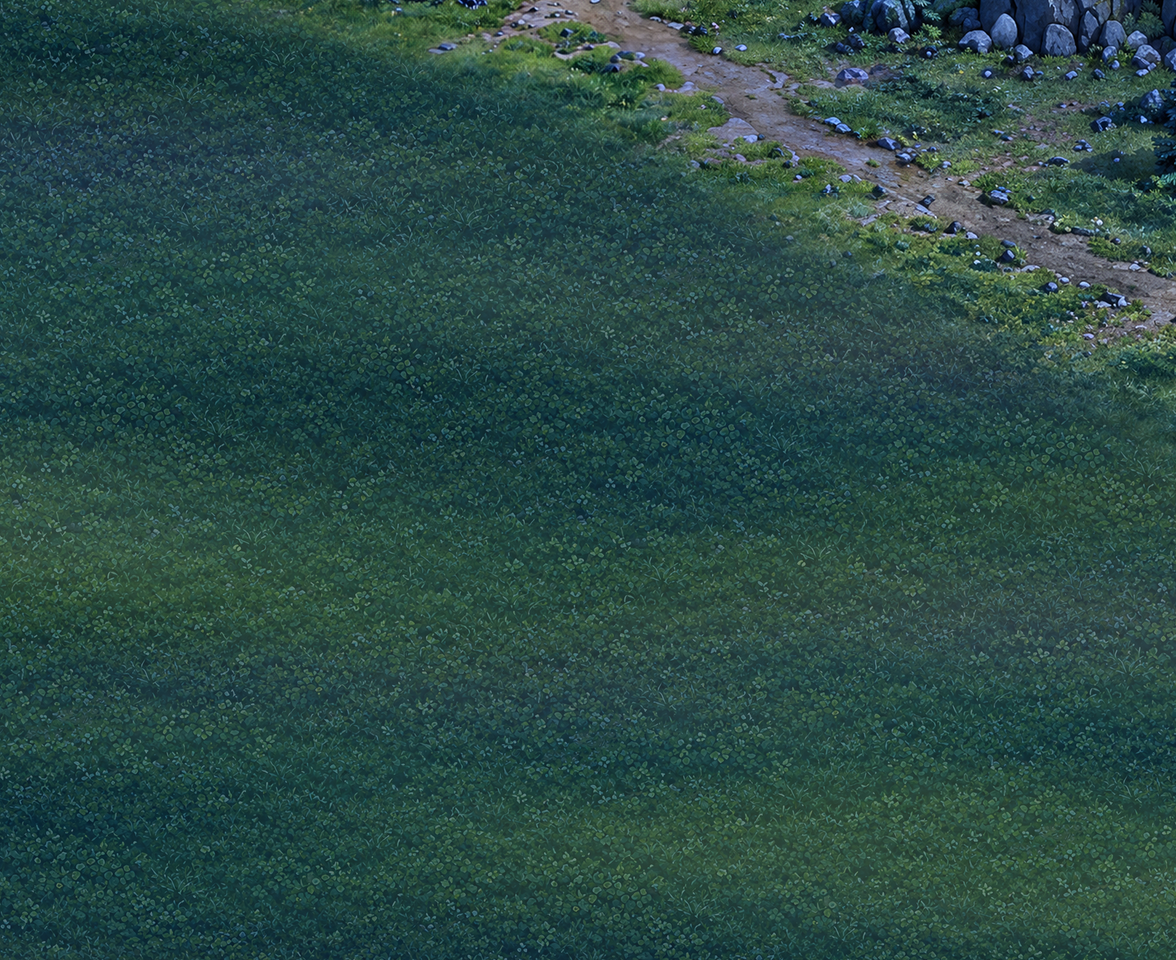
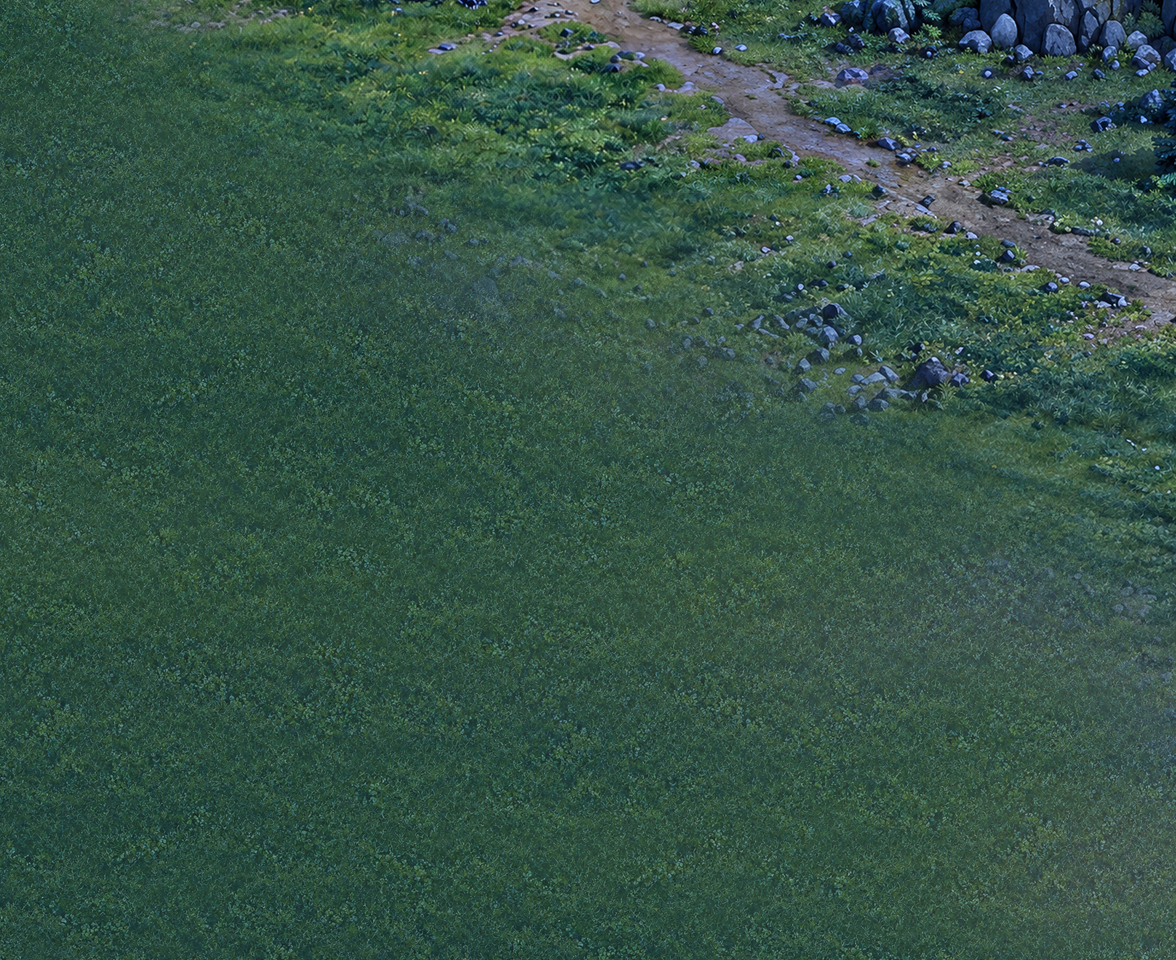
草地边界优化

diff --git a/tools/build_wide_map.py b/tools/build_wide_map.py
@@ -71,12 +71,12 @@ def minimum_seam(cost):
 
 def grass_field():
     """只裁切和拼合一份生成材质，不绘制草叶或程序生成美术。"""
-    source=Image.open(OUT/'grass-material-v2-source.png').convert('RGB')
+    source=Image.open(OUT/'grass-material-v3-source.png').convert('RGB')
     pixels=np.asarray(source,dtype=float)
     low=np.asarray(source.filter(ImageFilter.GaussianBlur(20)),dtype=float)
     # 材质只提供细草高频；整片草地的缓慢光照来自同一份已有生成底色。
     source=Image.fromarray(np.uint8(np.clip(np.rint(128+(pixels-low)*.7),0,255)))
-    save_image(source,OUT/'grass-material-v2.png')
+    save_image(source,OUT/'grass-material-v3.png')
     field=np.zeros((SIZE[1],SIZE[0],3),np.uint8)
     tile_size,overlap=576,96
     crop_size=min(source.width,source.height,960)
@@ -103,7 +103,10 @@ def grass_field():
                 weight[:band]=np.minimum(weight[:band],top)
             field[y:y+h,x:x+w]=np.uint8(np.rint(current*(1-weight[:,:,None])+patch*weight[:,:,None]))
     macro=Image.open(OUT/'west-source.png').convert('RGB').filter(ImageFilter.GaussianBlur(12)).resize(SIZE,Image.Resampling.LANCZOS)
-    return Image.fromarray(np.uint8(np.clip(np.rint(np.asarray(macro,dtype=float)+(field.astype(float)-128)*.5),0,255)))
+    # 降低旧底色的横向明暗条带；细草与山脚使用接近的灰绿色基调。
+    macro_pixels=np.asarray(macro,dtype=np.float32)
+    macro_pixels=(macro_pixels-macro_pixels.mean(axis=(0,1)))*.3+np.array([46,78,65])
+    return Image.fromarray(np.uint8(np.clip(np.rint(macro_pixels+(field.astype(float)-128)*.8),0,255)))
 
 def repair_joins(base,legacy,mountain_region):
     # 原有山体从原高清图精确恢复，不保留上一版压缩补绘侵入旧山区的部分。
@@ -152,7 +155,25 @@ def repair_joins(base,legacy,mountain_region):
     ImageDraw.Draw(extended).polygon(draw_points,fill=255)
     plain=extended.filter(ImageFilter.GaussianBlur(20)).crop((64,64,SIZE[0]+64,SIZE[1]+64))
     mask=np.asarray(plain,dtype=float)*(1-np.asarray(protect)/255)
-    blend(base,grass_field(),(0,0),Image.fromarray(np.uint8(mask)))
+    # 先合并山体保护区，再向平原内侧羽化；不能在羽化后用硬保护区截断。
+    # 约600世界像素的交接范围让草色、纹理密度一起渐变，岩壁与水岸保持原像素。
+    allowed=Image.fromarray(np.uint8(mask))
+    padded=np.pad(np.asarray(allowed),600,mode='edge')
+    softened=Image.fromarray(padded).filter(ImageFilter.GaussianBlur(150))
+    t=np.clip((np.asarray(softened.crop((600,600,SIZE[0]+600,SIZE[1]+600)),dtype=float)/255-.5)*2,0,1)
+    mask=np.minimum(mask,np.rint(t*t*(3-2*t)*255))
+    grass=grass_field()
+    # 色调在比细节更宽的范围内接近原山脚，避免羽化后仍能辨认出暗色草坪边。
+    # 只转移低频颜色，细草不模糊；最后仍由保护遮罩限制实际写入范围。
+    padded=np.pad(np.asarray(allowed),1600,mode='edge')
+    broad=Image.fromarray(padded).filter(ImageFilter.GaussianBlur(400))
+    tone=np.clip((np.asarray(broad.crop((1600,1600,SIZE[0]+1600,SIZE[1]+1600)),dtype=np.float32)/255-.5)*2,0,1)
+    tone=1-tone*tone*(3-2*tone)
+    original_low=np.asarray(base.filter(ImageFilter.GaussianBlur(48)),dtype=np.float32)
+    grass_low=np.asarray(grass.filter(ImageFilter.GaussianBlur(48)),dtype=np.float32)
+    matched=np.asarray(grass,dtype=np.float32)+(original_low-grass_low)*tone[:,:,None]
+    grass=Image.fromarray(np.uint8(np.clip(np.rint(matched),0,255)))
+    blend(base,grass,(0,0),Image.fromarray(np.uint8(mask)))
     save_image(Image.fromarray(np.uint8(mask)),OUT/'plain-material-mask-v2.png')
 
 def main():
@@ -265,8 +286,10 @@ def main():
     save_image(preview.convert('RGB').resize((1764,720),Image.Resampling.LANCZOS),OUT/'overview.png')
     record = dict(date='2026-10-21',tool='built-in image_gen',mapMode='scene_mode',visualModel='layered_raster',runtimeObjectModel='existing_separate_props',collisionModel='project-native grid + blocked north boundary',engineTarget='Godot 4.7',worldSize=list(SIZE),legacyWorldOffset=list(OFFSET),generatedAssets=[])
     record['revision']='join-repair-v4'
+    record['grassTransition']={'date':'2026-10-22','method':'细草v3、条带降幅、低频色调与细节分开过渡','blurRadius':150,'toneBlurRadius':400,'protectedPixelsUnchanged':True}
     record['composition']='原山区像素保护；顶部真实坐标补绘；全平原共用一份生成草地材质，以重叠区最小色差剪切线拼合'
     references = {'extension-source':'extension-guide','north-source':'north-guide','grass-repair-source':'grass-seam-reference','west-source':'west-guide','grass-material-v2-source':'grass-material-v2','north-join-v2-source':'north-join-v2','north-continuity-v3-source':'north-continuity-v3','north-clean-v4-source':'north-clean-v4'}
+    references['grass-material-v3-source']='grass-material-v3'
     for name in references:
         path = OUT/(name+'.png')
         record['generatedAssets'].append(dict(path=path.name,prompt=name+'.prompt.txt',reference='references/'+references[name]+'.png',nativeSize=list(Image.open(path).size),sha256=hashlib.sha256(path.read_bytes()).hexdigest()))

diff --git a/tools/check_wide_map.py b/tools/check_wide_map.py
@@ -55,7 +55,7 @@ def main():
     assert border.size==base.size and border.mode=='RGBA' and border.getchannel('A').getextrema()==(0,255)
     record=read(OUT/'generation-record.json')
     assert record['revision']=='join-repair-v4'
-    assert len(record['generatedAssets'])==8
+    assert len(record['generatedAssets'])==9
     for entry in record['generatedAssets']:
         path=OUT/entry['path']
         assert Image.open(path).size==tuple(entry['nativeSize']) and digest(path)==entry['sha256']
@@ -70,6 +70,10 @@ def main():
     assert v1<v0*.6 and h1<h0*.6, '历史母图局部接缝指标应保持；不代表扩边接缝视觉验收'
     plain=np.asarray(Image.open(OUT/'plain-material-mask-v2.png'))
     assert np.all(plain[:,1800:3000]==255), '用户反馈的全高交界必须完全共用同一草地材质'
+    delta=plain.astype(np.int16)
+    assert max(np.abs(np.diff(delta,axis=0)).max(),np.abs(np.diff(delta,axis=1)).max())<=3, '草地过渡不得被山体硬遮罩截断'
+    for y in (600,1500,2450):
+        assert np.count_nonzero((plain[y]>0)&(plain[y]<255))>=300, '上中下交界至少保留300世界像素的渐变'
     # 北部补绘仅占顶部440世界像素；其下山区保护区应保持原地形像素。
     from PIL import ImageDraw
     protection=Image.new('L',base.size)
@@ -89,7 +93,7 @@ def main():
     print('PASS: 7056×2880素材、196×80格及八资源保持同步')
     print('PASS: 原547路格/八石梯/所有岩壁格仅按68列8行迁移')
     print('PASS: 18片地表重组与连续底图逐像素一致')
-    print('PASS: 复用树簇/岩缘/边界alpha与八张生成稿的提示词、参考、尺寸和哈希有效')
+    print('PASS: 复用树簇/岩缘/边界alpha与九张生成稿的提示词、参考、尺寸和哈希有效')
     print('PASS: 原竖带区域完全共用统一草地；顶部补绘及两处局部植被清理区外原山区逐像素保持，视觉另查GL')
     print(f'PASS: 横缝均差{h0:.3f}→{h1:.3f}，竖缝{v0:.3f}→{v1:.3f}；此为局部指标，仍需GL目检')
     print(f'PASS: {len(files)}项素材/数据/提示词确定性重建一致，旧源文件哈希保持')

diff --git a/DEVELOPMENT_PROGRESS.md b/DEVELOPMENT_PROGRESS.md
@@ -28,10 +28,10 @@ powershell -ExecutionPolicy Bypass -File .\tools\check_project.ps1
 
 | 项目 | 当前状态 |
 |---|---|
-| 最后更新 | 2026-10-21 |
+| 最后更新 | 2026-10-22 |
 | 开发阶段 | 制作阶段（Production），顶部山体补全、7056×2880视口比例和平原草地修复已接入验证；既有进攻路与S6约束保持。首次寻路尖峰、动态避让和自然长局待后续 |
 | 当前分支 | `master` |
-| 接力基线提交 | `1bb55d8`（单位移动路线优化）；2026-10-21地图扩边及本轮验证文档未提交 |
+| 接力基线提交 | `9c40f35`（地图优化）；接续时已存在，本次仅补充收尾验证文档，未执行提交/推送 |
 | 当前电脑工作副本 | `D:\MyProject\waiting-for-dawn` |
 | 远程仓库 | `origin` → `https://gitee.com/yangget/waiting-for-dawn.git` |
 | 引擎 | Godot 4.7 Standard，GDScript，GL Compatibility |
@@ -42,6 +42,21 @@ powershell -ExecutionPolicy Bypass -File .\tools\check_project.ps1
 提交哈希只是接力参考。若本文档之后已有新提交，应以 `git log -5 --oneline --decorate` 和远程分支为准，并在本次开发结束时更新本表。
 
 ## 已完成的开发内容
+
+### 草地材质与色调二次优化（2026-10-22）
+
+用户反馈首版仍明显，现使用内置image_gen生成1254×1254细草v3，减弱平原条带，并将400像素半径的低频草色匹配与150像素半径的纹理羽化分开。地图回归144项、GL38项、61项确定性产物与山区像素保护检查通过；全图及上中下/1.6倍近景已目检。最终观感待用户复核，最大倍率仍有源材质风格差异；下一步按反馈复核，首次寻路尖峰与自然长局待后续。
+
+
+### 草地与山脚自然过渡（2026-10-22）
+
+修复硬保护遮罩截断羽化的问题，沿平原一侧渐变衔接原山脚草地，保持原山区像素与导航。144项回归、GL38项与57项确定性产物检查通过；全图、上中下交界及最大倍率已目检，最终审美待复核，详见本日草地过渡QA。
+
+### 草地竖带与北部错层修复（2026-10-22收尾）
+
+用户后续两图证实上一轮视觉判断不充分。现平原共用统一草地材质与连续底色，北部采用统一比例补绘，清理水缝、悬空草台及半截植被；同步两张独立岩缘贴图以消除旧遮挡层蓝块，并修复边界树林矩形切口。7056×2880世界、资源和导航保持。相关4组249项回归通过，最终岩缘同步后另复测大图120/扩边24项；GL38项与全图、交界上中下段、北部左右和1.6倍近景目检通过；57项确定性产物、8稿来源、18片重组、旧源保护和岩缘alpha保持通过。详见`tests/reports/qa-2026-10-22-map-join-repair.md`。
+
+本轮没有重跑全量，以下1542项为历史基线。新平原更均匀，北部补绘最大倍率仍较原高清岩壁柔和；最终美术接受度待用户复核，首次寻路约809ms尖峰、动态避让和自然长局问题保持。
 
 ### 顶部山体补全、视口比例与草地修复（2026-10-21已接入验证）
 
@@ -317,9 +332,19 @@ JSON、两份提示词、无图片/未接入状态与参考图存在检查通过
 
 ## 当前首要任务
 
-### 追加反馈：草地竖带与山区顶部错层（2026-10-21修复中）
+### 草地材质与色调二次优化（2026-10-22已接入验证）
 
-用户两张实景图证实上一轮西侧交界仍有全高竖向色带，顶部补绘有横向水带与重复岩层。原功能回归继续有效，但不能据此认定这两处视觉已通过；本轮先纠正补绘与合成，再检查全图和对应近景。保持7056×2880、资源和导航数据，不扩范围。
+用户反馈首版仍明显，现使用内置image_gen生成1254×1254细草v3，减弱平原条带，并将400像素半径的低频草色匹配与150像素半径的纹理羽化分开。地图回归144项、GL38项、61项确定性产物与山区像素保护检查通过；全图及上中下/1.6倍近景已目检。最终观感待用户复核，最大倍率仍有源材质风格差异；下一步按反馈复核，首次寻路尖峰与自然长局待后续。证据：`tests/reports/qa-2026-10-22-grass-transition-v2.md`。
+
+
+### 草地与山脚过渡（2026-10-22已接入验证）
+
+按新增红框修正平原与山脚硬分界：先合并保护遮罩再向平原内侧渐变，上中下过渡323/590/501世界像素，遮罩最大邻差36→3。已重建地形及小地图；144项地图回归、GL38项、57项确定性产物、结构/差异检查通过，目检全图与交界近景。证据见`tests/reports/qa-2026-10-22-grass-transition.md`。最终观感待用户复核，两种源材质近景风格差异仍在；下一步复核反馈，首次寻路尖峰及自然长局待后续。
+
+
+### 追加反馈：草地竖带与山区顶部错层（2026-10-22已修复，待用户视觉复核）
+
+用户两张实景图证实上一轮西侧交界仍有全高竖向色带，顶部补绘有横向水带与重复岩层。原视觉结论已更正；本轮统一平原材质、纠正北部补绘并同步遮挡层，249项相关回归、GL38项和57项确定性检查通过，已检查全图及对应近景。下一步用户复核实际观感；保留最大倍率清晰度限制，后续按反馈安排性能和自然长局，不自动扩图或改导航。
 
 ### 顶部山体延展、视口比例与草地拼接（2026-10-21已验证，待用户视觉复核）
 
@@ -607,6 +632,9 @@ git diff --check
 
 | 日期 | 内容 | 验证 |
 |---|---|---|
+| 2026-10-22 | 用户反馈首版仍明显；生成细草v3，弱化横向明暗条带，分开草色匹配与纹理渐变。 | 144项地图回归、GL38项、61项确定性产物、山区保护、结构与差异检查通过；全图和近景已目检，最终观感待复核。 |
+| 2026-10-22 | 按新增红框修复草地与山脚硬分界，合并保护区后向平原内侧渐变，重建切片和小地图。 | 144项回归、GL38项、57项确定性产物、山区保护及结构/差异检查通过；目检全图与上中下近景，最终观感待复核。 |
+| 2026-10-22 | 接续修复草地竖带、山区水缝/错层、旧岩缘蓝块和边界林带切口，纠正上一轮视觉结论并补充定点截图。 | 相关249项、GL38项、57项素材确定性及两张岩缘alpha保持通过；项目结构/差异检查通过。最终观感待用户复核，近景柔和与既有首次寻路尖峰限制保留。 |
 | 2026-10-21 | 内置generate2dmap四稿补出顶部山体、扩展西侧平原并修复草地接缝，接入7056×2880/196×80格与18片连续地形；旧区域及导航共同迁移，小地图同步，岩缘按实际视口裁剪。 | 全量37组1542项、GL新画幅31/地图70/S6 5/输入28项通过；真实新增农场交付、四矿往返、40项素材数据确定性、提示词/参考/alpha/重组、导入/结构/差异检查通过。首次路径峰值809ms、最终视觉/动态避让/长局待后续，未提交/推送。 |
 | 2026-10-20 | 野怪出生即规划最短进城路线，索敌沿真实路径选择最近可达目标；补封路破障、攻击距离/遮挡及小幅移动目标恢复。 | 新专项33项、全量36组1518项、GL8项、四出生点独立Dijkstra及实际移动、导入/结构/差异检查通过；S6成果保留。高密度索敌、首次路径尖峰、动态避让和自然长局待后续，未提交/推送。 |
 | 2026-10-20 | S6按两段石梯及平台折返对齐，调整R03山脚和R12上端连接并封闭侧墙；导出新版路线总览，保留历史图。 | 新专项18项、全量35组1485项及GL6项通过，双向16点/680.38世界像素；导航/图册确定性、其他15路7梯配置不变、项目结构与差异检查通过。首次寻路尖峰、动态避让和自然长局仍待后续，未提交/推送。 |

diff --git a/tests/reports/qa-2026-10-22-map-join-repair.md b/tests/reports/qa-2026-10-22-map-join-repair.md
@@ -1,0 +1,34 @@
+# 2026-10-22 草地竖带与北部山区拼接修复
+
+用户两张截图确认上一轮仍有西侧全高竖带、北部横向水带与悬空重复草台。此前功能测试和母图局部接缝指标没有覆盖这些实际缺陷，不能作为视觉通过证据。本轮已修正合成并核对游戏截图；整体美术接受度待用户复核。
+
+## 修复内容
+
+- 平原两侧共用同一生成草地细节与连续底色，取消新旧材质在固定竖线上的长距离羽化；沿山脚和湖岸过渡，18片地表从同一底图裁切。
+- 北部补绘保持参考坐标的统一比例，清除横向水带、重复薄草台和两处半截植被。同步两张独立岩缘贴图，避免旧遮挡层把蓝色矩形重新盖回来；原透明轮廓逐像素保持。
+- 边界林带改为取完整树根和透明边缘，去掉旧短条裁切造成的矩形断口。世界7056×2880、资源点、547路格、8石梯及经济规则保持。
+- 使用内置 image_gen；本次新增4张被采用的生成原稿，连同上一轮共8张，提示词、参考、尺寸及哈希见 `assets/map/dawn_wide_v3/generation-record.json`。脚本只处理合成、裁切及材质拼合。顶部补绘及两处清理范围之外的原山区保持原像素。
+
+## 验证结果
+
+验证于10月21日执行，10月22日接续核对并收尾；截图目录保留实际生成日期。
+
+| 检查 | 结果 |
+|---|---|
+| 相关功能回归 | 4组249项通过：扩边24、大图120、山区87、S6 18；最终遮挡素材同步后另复测大图120与扩边24项 |
+| 真实GL | 38项通过，错误日志为空；覆盖960×540、1280×720、1024×768、回城、小地图、重开、裁剪及定点截图 |
+| 素材与确定性 | 57项产物重建一致；8稿来源完整、18片逐像素重组、旧源哈希、资源/导航迁移、两张岩缘alpha保持检查通过 |
+| 项目检查 | `tools/check_project.ps1`、`git diff --check`通过 |
+
+日志：`.codex-temp/map-seams-20261021/`、`.codex-temp/qa-20261021-180429/`、`.codex-temp/qa-20261021-180921/`、`.codex-temp/qa-20261021-185953/`。本轮未重跑全量；37组1542项为上一轮历史基线。
+
+逐张目检全图、原竖带上/中/下段、草地1.6倍、北部左右段及1.6倍近景：原全高竖带、横水缝和遮挡层蓝块未再出现。自动截图成功不等于视觉验收，以上目检单独记录。
+
+- [全图](images/map-join-repair-2026-10-21/1280x720-full.png)
+- [北部左段](images/map-join-repair-2026-10-21/join-4100-350.png)、[北部右段](images/map-join-repair-2026-10-21/join-5800-350.png)
+- [草地上段](images/map-join-repair-2026-10-21/join-2500-600.png)、[中段](images/map-join-repair-2026-10-21/join-2500-1500.png)、[下段](images/map-join-repair-2026-10-21/join-2500-2450.png)
+- [草地近景](images/map-join-repair-2026-10-21/grass-join-detail.png)、[山区近景](images/map-join-repair-2026-10-21/north-join-detail.png)
+
+## 限制与下一步
+
+新平原整体材质比旧图更均匀；北部补绘在1.6倍近景中仍比旧高清岩壁柔和，不能称为原生7K或全图等清晰度。下一步由用户复核实际观感；不继续自动扩图或改导航。此前约809ms首次寻路尖峰、动态避让与自然60分钟试玩问题保持，本次没有处理性能。本次收尾仅更新文档，未执行提交或推送。

diff --git a/design/gdd/large-map-design-restoration-system.md b/design/gdd/large-map-design-restoration-system.md
@@ -1,10 +1,12 @@
 # 系统 GDD：大地图设计图还原与现有交互兼容
 
 > 状态：方案B已接入；2026-10-21按用户截图扩为7056×2880视口比例，北部补全与草地修复已验证；最终美术和自然长局体验待评审
-> 更新：2026-10-21
+> 更新：2026-10-22
 > 依据：用户要求地图更大，讨论100%还原v2设计图并兼顾当前交互；当前Godot 4.7 Standard、Steam单机、36世界像素格保持为实现基线
 
 ## 目标与游戏支柱
+
+2026-10-22视觉修订：用户后续截图否定上一轮草地/北部衔接判断。当前平原共用统一材质，北部按实际坐标比例连续补绘，两处半截植被与旧岩缘蓝块同步清理；边界林带使用完整透明边缘。保持7056×2880与所有资源/导航标注，不由补绘新增可走路。相关249项、GL38项及57项素材检查通过，最终观感待用户复核；最大倍率北部细节较原高清岩壁柔和。详见[接缝修复QA](../../tests/reports/qa-2026-10-22-map-join-repair.md)。
 
 将v2的开阔平原、边界密林、四簇树林、立体山体、嵌入石阶和右下湖泊落为可交互大地图，同时延续拖牌建造、资源吸附、岗位调度、农民运输、单位寻路、暂停和重开。2026-10-13用户确认按方案实施；随后明确先保留扩大后的尺寸继续收尾。
 
@@ -180,3 +182,9 @@ AStarGrid2D支持设置region、cell_size、固体格和权重；API层可支撑
 北部补画区域用于显露山体后缘，尚未设计新的山路或矿点，以独立`boundary`格禁止移动、建造和穿透交互；不把画出的新草台默认开放为新路线。西北固定树林复用透明素材并迁移阻挡，四资源树林、矿点及岩缘仍为独立层。地表由内置image_gen的扩边、北部补全、草地修复及西侧细草稿合成，再从同一连续底图切18片；原山区和湖岸采用既有高清像素，草地修复遮罩避开山区权威区域。
 
 运行清单为`assets/map/dawn_wide_v3/`；`tools/build_wide_map.py`可确定性重建，`tools/check_wide_map.py`校核尺寸、alpha、提示词、参考、哈希及共边重组。高Z岩缘另外按可玩视口裁切，避免近景露到上下HUD后方。证据与限制见[本轮QA](../../tests/reports/qa-2026-10-21-wide-map.md)。
+
+## 2026-10-22 草地过渡修订
+
+新增红框反馈的平原/山脚材质分界改为合并保护区后向平原内侧平滑羽化，保留山区原像素，不改变通行与建造规则。144项地图回归、GL38项与素材确定性检查通过；最终审美待复核，证据见[草地过渡QA](../../tests/reports/qa-2026-10-22-grass-transition.md)。
+
+二次反馈后细化：单纯扩大羽化不能解决两侧材质差异。平原改用生成细草v3，旧底色条带保留30%起伏；低频草色以400像素模糊半径逐渐匹配旧山脚，纹理仍用150像素半径内侧羽化。原山体保护区像素、导航和资源规则保持。见[二次优化QA](../../tests/reports/qa-2026-10-22-grass-transition-v2.md)。

diff --git a/production/stories/story-031-layered-large-map.md b/production/stories/story-031-layered-large-map.md
@@ -1,6 +1,12 @@
 # Story-031：分层大地图与设计图交互还原
 
-状态：运行候选，顶部山体/7056×2880视口比例/平原接缝修复及旧S6路线迁移已验证；自动化与GL通过；首次寻路尖峰、最终美术和自然长局待后续；日期：2026-10-21
+状态：运行候选，追加草地材质与色调二次优化已通过144项回归、GL38项及目检；最终美术待用户复核，首次寻路尖峰和自然长局待后续；日期：2026-10-22
+
+2026-10-22二次优化：用户反馈首版仍明显，现使用内置image_gen生成1254×1254细草v3，减弱平原条带，并将400像素半径的低频草色匹配与150像素半径的纹理羽化分开。地图回归144项、GL38项、61项确定性产物与山区像素保护检查通过；全图及上中下/1.6倍近景已目检。最终观感待用户复核，最大倍率仍有源材质风格差异；下一步按反馈复核，首次寻路尖峰与自然长局待后续。见[二次优化QA](../../tests/reports/qa-2026-10-22-grass-transition-v2.md)。
+
+2026-10-22新增红框反馈：平原与山脚衔接仍明显，已修正先羽化后硬截断的问题，改为保护区合并后向平原内侧渐变。上中下宽度323/590/501世界像素；144项回归、GL38项及57项确定性产物通过，全图与近景已目检。最终观感及近景材质差异待复核；见[草地过渡QA](../../tests/reports/qa-2026-10-22-grass-transition.md)。
+
+2026-10-22接续修复：上一轮仍有草地竖带与北部水缝，原视觉结论不充分。现统一平原材质、连续补绘北部并同步两张独立岩缘，清除蓝块和树林矩形切口；世界/资源/导航保持。4组249项、GL38项及57项确定性检查通过，最终岩缘同步后另复测大图120/扩边24项；目检全图、竖带上中下及山区左右近景，缺陷未再出现。原岩缘alpha保持；北部补绘最大倍率仍较原岩壁柔和，不宣称全图等清晰。详见[接缝修复QA](../../tests/reports/qa-2026-10-22-map-join-repair.md)。下文为历史证据。
 
 2026-10-21追加三图反馈：向西扩展可建平原、向北补全被截断山体，世界7056×2880/196×80格；原4608×2592区域平移(2448,288)，36像素格、八资源相对距离及547路格/八石梯几何保持。内置image_gen四稿、18片同源地形与小地图比例接入，草地局部横竖接缝修复；新增北部展示带禁行禁建，近景高Z岩缘不再越出实际视口。新增平原真实农场/农民交付、四矿往返、全量37组1542项、新画幅GL31/地图GL70/S6 GL5/真实输入28项及40项确定性重建通过。默认960×540布局覆盖可玩视口99.8%以上，其他比例完整等比留边；首次寻路峰值约809ms仍待优化。详见[本轮QA](../../tests/reports/qa-2026-10-21-wide-map.md)。以下4608×2592与此前逐像素指标保留为历史验收，不作为新版尺寸或像素一致性声明。
 

diff --git a/tests/reports/qa-2026-10-22-grass-transition-v2.md b/tests/reports/qa-2026-10-22-grass-transition-v2.md
@@ -1,0 +1,27 @@
+# 2026-10-22 草地材质与色调二次优化
+
+首版仅柔化边缘，用户仍能明显辨认草地交界。检查近景发现平原大圆叶颗粒、偏暗偏蓝的底色与横向条带和旧山脚不一致。
+
+## 改动
+
+- 内置image_gen参考当前山脚实景生成1254×1254细草v3，替代大圆叶颗粒；原稿、提示词、参考与SHA256均保留在`assets/map/dawn_wide_v3/`。
+- 旧底色的大尺度明暗起伏降至30%，基调改为更接近山脚的灰绿；草叶细节继续通过重叠区最小色差拼合。
+- 将草色和纹理分别处理：400世界像素模糊半径控制较宽范围的低频颜色匹配，150半径控制细节羽化。只对颜色低频匹配，不模糊最终草叶；原有保护遮罩限制最终写入。
+- 连续底图、切片、预览和小地图同步重建。世界尺寸、八资源、导航、山区保护像素保持。
+
+## 本轮验证
+
+- 扩边24、大地图120项通过；日志`.codex-temp/qa-20261022-220402/`及`.codex-temp/qa-20261022-220406/`。
+- GL Compatibility 38项（包含截图保存检查）通过，错误日志为空；三个视口、回城、小地图、重开、裁剪通过。日志`.codex-temp/grass-transition-v2-20261022/`。
+- 目检全图、上中下段及1.6倍交界：平原大圆叶颗粒消失，条带减弱，山脚草色衔接更柔和；这不替代用户最终美术验收。
+- `tools/check_wide_map.py`通过：9稿来源完整、61项确定性产物重建一致、18片地形重组、山区保护像素、原始源文件及导航保持。
+- Godot导入、`tools/check_project.ps1`与`git diff --check`通过。
+
+## 证据与来源
+
+- [全图](images/grass-transition-v2-2026-10-22/960x540-full.png)
+- [上段](images/grass-transition-v2-2026-10-22/join-3650-600.png)、[中段](images/grass-transition-v2-2026-10-22/join-4500-1500.png)、[下段](images/grass-transition-v2-2026-10-22/join-4500-2450.png)
+- [最大倍率](images/grass-transition-v2-2026-10-22/grass-join-detail.png)
+- [生成原稿](../../assets/map/dawn_wide_v3/grass-material-v3-source.png)、[完整提示词](../../assets/map/dawn_wide_v3/grass-material-v3-source.prompt.txt)、[来源清单](../../assets/map/dawn_wide_v3/generation-record.json)
+
+原稿由内置image_gen生成，再由项目既有确定性素材工具接入；不是原生7K整图。最大倍率仍有源材质风格差异，最终观感待用户复核；不声称完全无缝。未重跑全量、未处理性能/动态避让/自然长局，未提交或推送。

diff --git a/tests/reports/qa-2026-10-22-grass-transition.md b/tests/reports/qa-2026-10-22-grass-transition.md
@@ -1,0 +1,32 @@
+# 2026-10-22 草地与山脚过渡
+
+后续用户反馈仍明显，本版只作为首版功能验证记录；最新材质与色调方案见[二次优化QA](qa-2026-10-22-grass-transition-v2.md)。
+
+用户新增红框指出平原与旧山脚草地衔接明显。此前竖带修复的视觉结论不覆盖本次边界问题。
+
+## 改动
+
+修正既有素材合成代码：先合并平原与山体保护遮罩，再向平原内侧以150世界像素高斯半径和平滑曲线渐变。上、中、下抽样过渡宽度分别为323、590、501世界像素。此前先羽化后乘硬保护区会重新截断边缘；现在遮罩最大相邻跳变由36降至3（0～255）。沿用已有生成源图，本次没有新增图像生成或重绘山体。
+
+重建连续底图、受影响地形切片、分层预览及小地图。保护区没有新增覆盖；山体保护区像素、世界尺寸、资源、导航和经济规则保持。
+
+## 验证
+
+- 扩边24项、大地图120项通过；日志`.codex-temp/qa-20261022-213236/`、`.codex-temp/qa-20261022-213240/`。
+- GL Compatibility 38项通过，含截图写入检查，错误日志为空；覆盖三种视口、回城、小地图、重开和地图裁剪。日志`.codex-temp/grass-transition-20261022/`。
+- 目检全图、交界上中下段及1.6倍近景，草地边界已渐变，既有山脚、石阶与岸线保留。最大倍率下两种源材质细节风格仍有差异，本次不宣称全图等清晰。
+- `tools/check_wide_map.py`通过：新增遮罩连续性与过渡宽度检查；18片逐像素重组、山区保护、原始来源、导航及57项确定性产物检查通过。
+- Godot重新导入无错误；项目结构检查及`git diff --check`通过。
+- 首次用Windows PowerShell运行UTF-8测试脚本遇到编码解析失败，切换项目既定的pwsh后测试正常通过；未改测试执行器。
+
+## 视觉证据
+
+- [全图](images/grass-transition-2026-10-22/960x540-full.png)
+- [上段](images/grass-transition-2026-10-22/join-3650-600.png)
+- [中段](images/grass-transition-2026-10-22/join-4500-1500.png)
+- [下段](images/grass-transition-2026-10-22/join-4500-2450.png)
+- [最大倍率](images/grass-transition-2026-10-22/grass-join-detail.png)
+
+## 后续
+
+最终观感待用户复核；未重跑全量，未处理首次寻路尖峰、动态避让和自然长局，未提交或推送。

diff --git a/tests/reports/qa-2026-10-21-wide-map.md b/tests/reports/qa-2026-10-21-wide-map.md
@@ -1,6 +1,6 @@
 # 2026-10-21 顶部山体、视口比例与草地修复
 
-结论：用户三项反馈已接入运行候选；功能、局部接缝指标和真实GL验证通过，最终美术仍待用户复核。未提交或推送。
+更正（2026-10-22）：用户后续截图证实本版仍有西侧竖带与北部水缝/错层，本报告的功能验证继续有效，原视觉判断不充分。修复与新的定点目检见[接缝修复QA](qa-2026-10-22-map-join-repair.md)。下文保留当时记录。
 
 ## 改动
 
